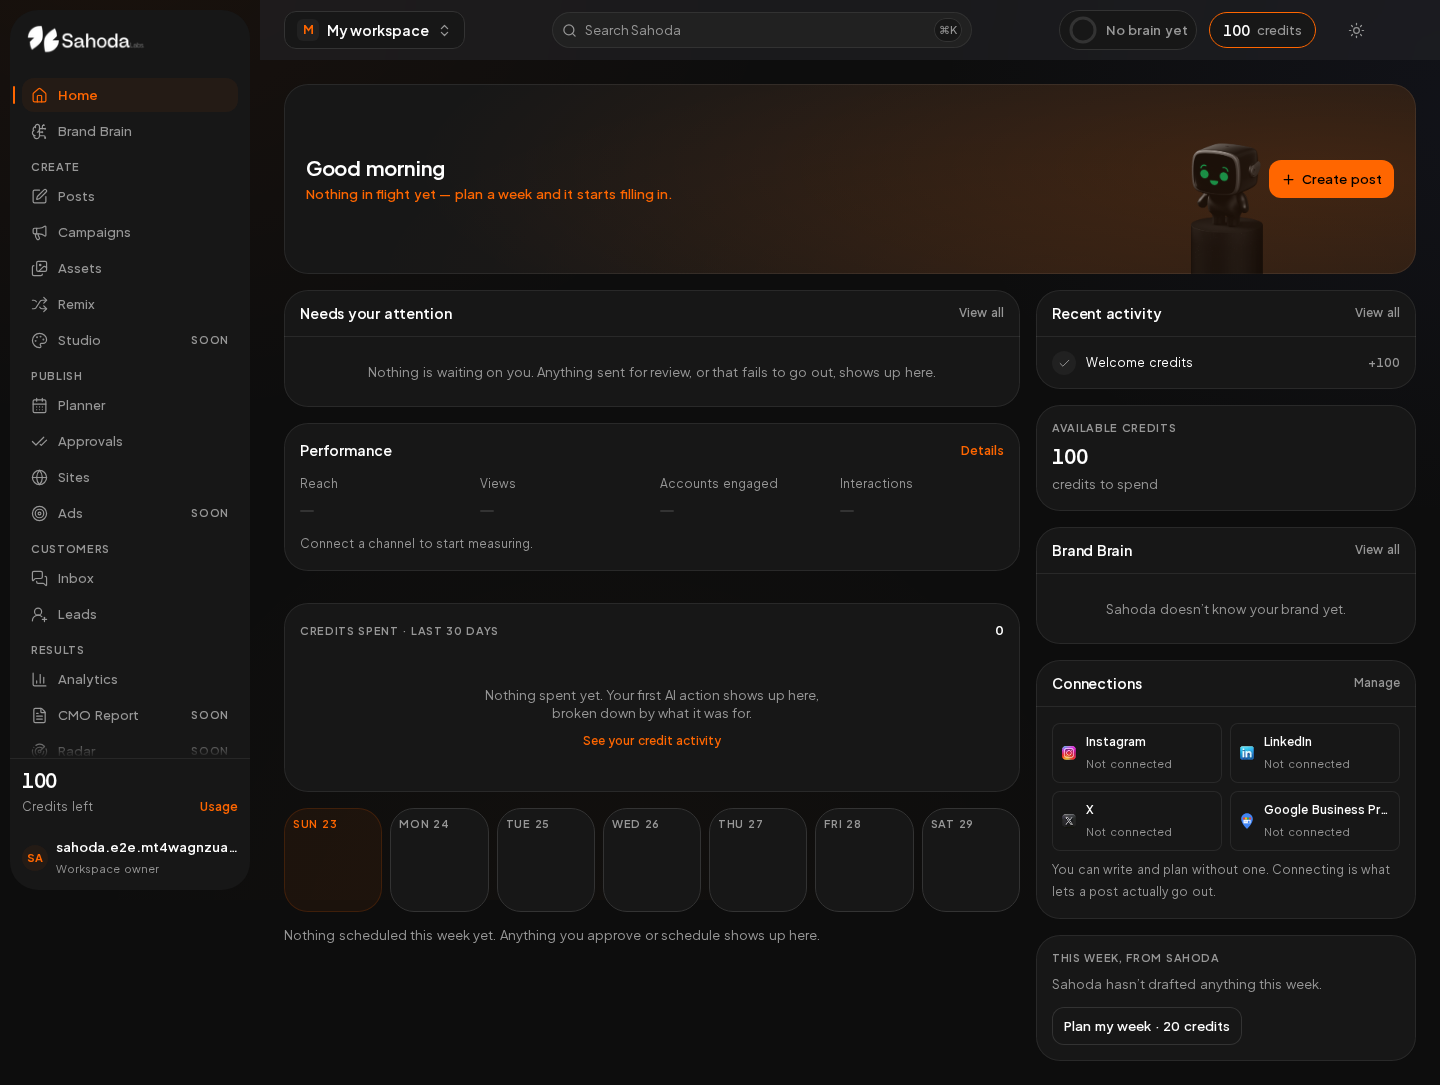
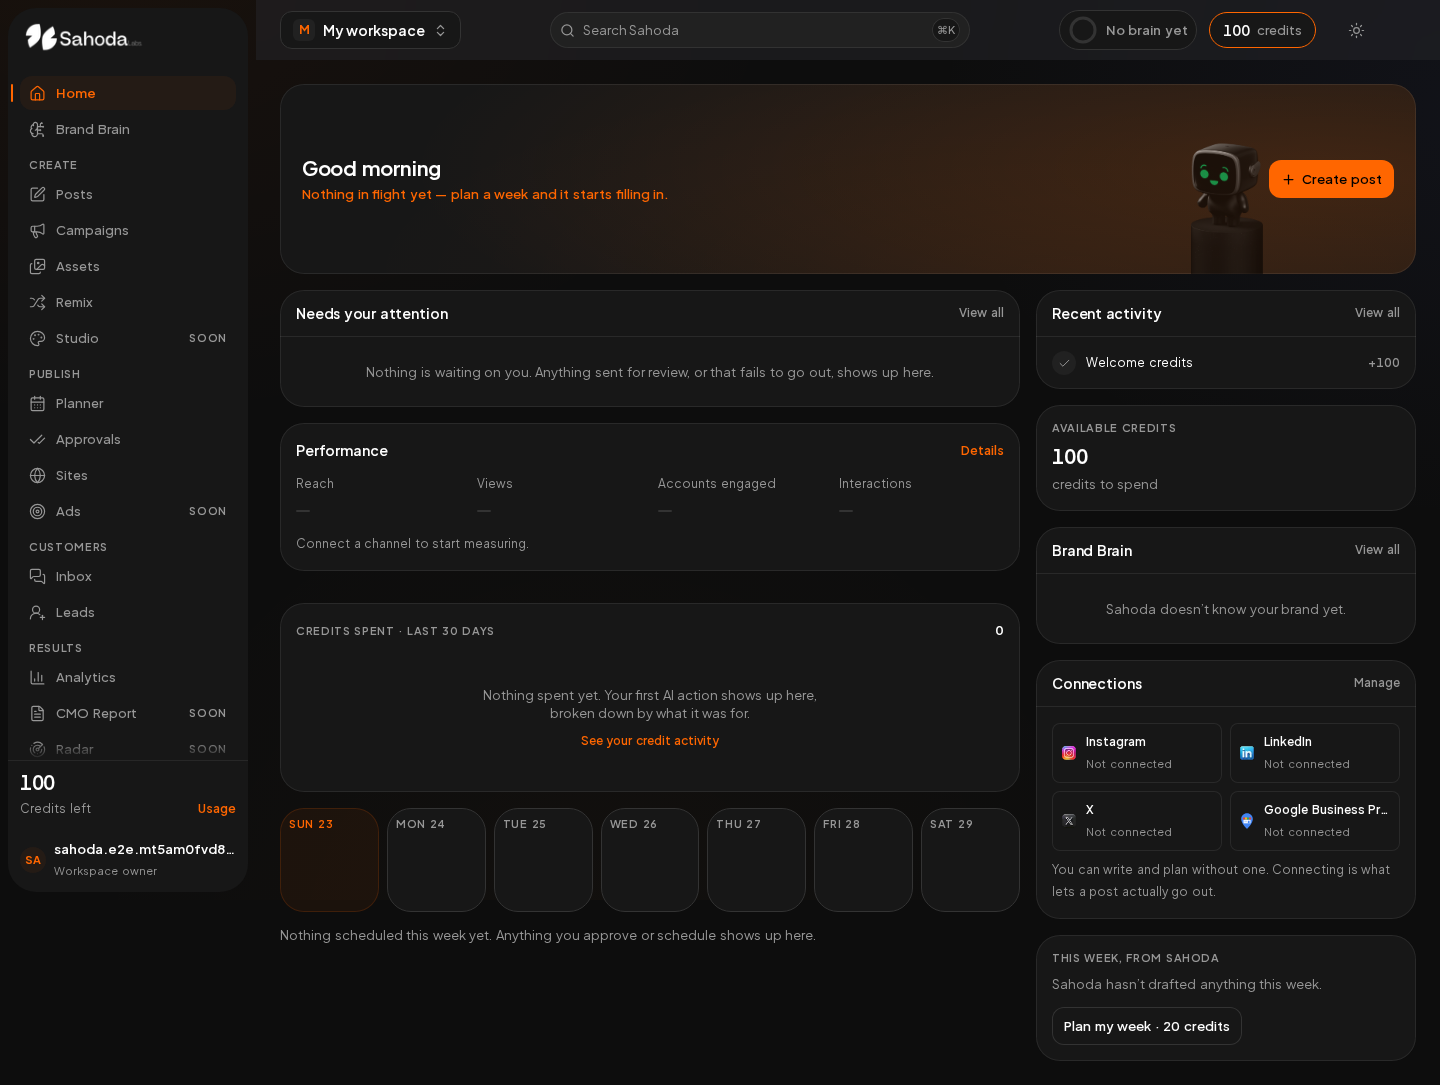
fix(design): the three smoke failures — one real regression, two brittle tests
Smoke ran 102 and reported 99 passed / 3 failed. All three were deterministic
(they failed on retry too), and all three were consequences of this lane.

1 · THE REAL ONE — /connections overflowed 700px by exactly 16px.

`connections-widths.spec.ts` reported "716px of content in 700px". I probed it
rather than guessing, and the overflowing element was NOT on the page — #main
was clean at 612px. It was the TOPBAR's avatar, at right=716.

The cause is the floating rail. Its grid column costs its WIDTH PLUS TWO
INSETS: 68 + 2x10 = 88px, where v4's flush 64px rail cost 64. That removed
24px from the content column at the one width where there is none spare, and
the topbar needed 16 of them.

Fixed at the token, not the page: --sidebar-w-collapsed 68 -> 56 and
--rail-inset 10 -> 8, so the column is 72px. Verified by re-probe —
scrollWidth 716 -> 700 exactly, MAIN 612 -> 628, rail x=8..64.

The reference measures 62px/10px, but at a 1844px viewport. Copying its
numbers into a 700px band was the mistake; taking its PROPORTION is the fix.

2,3 · TWO TESTS PINNING A PALETTE VALUE.

Both resolution-console tests asserted `--canvas === '#0b0b0c'`, v4's exact
dark canvas, and both failed on v5's measured #0d0d0d.

Their INTENT is right and is kept — each comment says it plainly: in light,
--ink is black and both pairs are legible, so a theme that failed to apply
would make the test pass on the one state the bug never existed in. The
[…]

diff --git a/apps/web/e2e/resolution-console.spec.ts b/apps/web/e2e/resolution-console.spec.ts
@@ -138,6 +138,43 @@ async function seedResolvedBrain(admin: SupabaseClient, workspaceId: string): Pr
   if (error) throw new Error(`seeding the brain failed: ${error.message}`)
 }
 
+/**
+ * Prove the page really is in dark, WITHOUT pinning a palette value.
+ *
+ * Both call sites used to assert `--canvas === '#0b0b0c'`. The INTENT was right
+ * and is kept — in light, `--ink` is black and both pairs are legible, so a
+ * theme that failed to apply would make these tests pass on the one state the
+ * bug never existed in. The IMPLEMENTATION was brittle: it pinned v4's exact
+ * dark canvas, so v5 moving it to the reference's measured #0d0d0d failed two
+ * tests that were not testing the palette at all.
+ *
+ * What the tests actually need is "the ground is dark", so that is what this
+ * measures — relative luminance, not a string. It survives any future retune of
+ * the ladder and still catches a theme that never applied (light's canvas
+ * measures ~0.96).
+ */
+async function expectDarkGround(page: import('@playwright/test').Page): Promise<void> {
+  const lum = await page.evaluate(() => {
+    const raw = getComputedStyle(document.documentElement).getPropertyValue('--canvas').trim()
+    const hex = raw.replace('#', '')
+    const full =
+      hex.length === 3
+        ? hex
+            .split('')
+            .map((c) => c + c)
+            .join('')
+        : hex
+    const [r, g, b] = [0, 2, 4].map((i) => parseInt(full.slice(i, i + 2), 16) / 255)
+    const lin = (c: number) => (c <= 0.04045 ? c / 12.92 : ((c + 0.055) / 1.055) ** 2.4)
+    return 0.2126 * lin(r!) + 0.7152 * lin(g!) + 0.0722 * lin(b!)
+  })
+  expect(
+    lum,
+    `--canvas has a relative luminance of ${lum.toFixed(4)} — the page is not in dark, so anything ` +
+      `measured on it would be measuring the state this test does not cover`,
+  ).toBeLessThan(0.05)
+}
+
 test.describe('signal resolution console @smoke', () => {
   test('a resolved brain arrives as a queue of guesses, and a batch can be confirmed', async ({
     page,
@@ -314,10 +351,7 @@ test.describe('signal resolution console @smoke', () => {
     // Confirm the page really is in dark before measuring anything on it —
     // otherwise a theme that failed to apply would make this pass on the light
     // palette, which is the state the bug never existed in.
-    const canvas = await page.evaluate(() =>
-      getComputedStyle(document.documentElement).getPropertyValue('--canvas').trim(),
-    )
-    expect(canvas).toBe('#0b0b0c')
+    await expectDarkGround(page)
 
     await page.getByRole('checkbox').first().check()
 
@@ -409,10 +443,7 @@ test.describe('dark ink on a white fill @smoke', () => {
     // Prove the page really is in dark before measuring. In light, `--ink` is
     // black and BOTH pairs are legible — so a theme that failed to apply would
     // make this pass on the one state the bug never existed in.
-    const canvas = await page.evaluate(() =>
-      getComputedStyle(document.documentElement).getPropertyValue('--canvas').trim(),
-    )
-    expect(canvas).toBe('#0b0b0c')
+    await expectDarkGround(page)
 
     const measured = await page.evaluate(
       ([contrastSrc]) => {

diff --git a/apps/web/src/lib/sites/tokens-css-inline.ts b/apps/web/src/lib/sites/tokens-css-inline.ts
@@ -401,11 +401,21 @@ export const TOKENS_CSS = `/* ==================================================
 
   /* ---------- L2 · LAYOUT ---------- */
   --sidebar-w: 240px; /* labelled rail, >=1180 */
-  --sidebar-w-collapsed: 68px; /* icon rail, 700-1179. Reference measured 62px. */
-  /* THE RAIL FLOATS. Measured on the reference: inset 10px from the viewport
-     on every side, radius 28px, so the page ground runs behind it. This is what
-     makes the rail read as an object on the page rather than a wall beside it. */
-  --rail-inset: 10px;
+  /* Icon rail, the 700-1179 band. The reference measures 62px at a 1844px
+     viewport; this is narrower because the constraint is different and it was
+     MEASURED, not chosen: the rail is no longer flush, so its grid column costs
+     its width PLUS two insets. At 68px + 2x10 that column took 88px where v4's
+     flush 64px rail took 64 — 24px removed from the content column, at the one
+     width where there is none to spare. The topbar overflowed by exactly 16px
+     at 700px and \`connections-widths.spec.ts\` caught it.
+     56 + 2x8 = 72px gives the 16px back and keeps the float visible. */
+  --sidebar-w-collapsed: 56px;
+  /* THE RAIL FLOATS. The reference measures a 10px inset; this is 8px for the
+     same reason the collapsed width is 56 — the inset is paid TWICE out of the
+     content column, and at 700px there are no spare pixels. Still a visible
+     float, and it is what makes the rail read as an object on the page rather
+     than a wall beside it. Radius 28px, measured. */
+  --rail-inset: 8px;
   --rail-r: var(--r-xl);
   --topbar-h: 60px;
   /* Widened from v4's 1080. The reference does not cap its content at all — at

diff --git a/packages/shared/tokens.css b/packages/shared/tokens.css
@@ -381,11 +381,21 @@
 
   /* ---------- L2 · LAYOUT ---------- */
   --sidebar-w: 240px; /* labelled rail, >=1180 */
-  --sidebar-w-collapsed: 68px; /* icon rail, 700-1179. Reference measured 62px. */
-  /* THE RAIL FLOATS. Measured on the reference: inset 10px from the viewport
-     on every side, radius 28px, so the page ground runs behind it. This is what
-     makes the rail read as an object on the page rather than a wall beside it. */
-  --rail-inset: 10px;
+  /* Icon rail, the 700-1179 band. The reference measures 62px at a 1844px
+     viewport; this is narrower because the constraint is different and it was
+     MEASURED, not chosen: the rail is no longer flush, so its grid column costs
+     its width PLUS two insets. At 68px + 2x10 that column took 88px where v4's
+     flush 64px rail took 64 — 24px removed from the content column, at the one
+     width where there is none to spare. The topbar overflowed by exactly 16px
+     at 700px and `connections-widths.spec.ts` caught it.
+     56 + 2x8 = 72px gives the 16px back and keeps the float visible. */
+  --sidebar-w-collapsed: 56px;
+  /* THE RAIL FLOATS. The reference measures a 10px inset; this is 8px for the
+     same reason the collapsed width is 56 — the inset is paid TWICE out of the
+     content column, and at 700px there are no spare pixels. Still a visible
+     float, and it is what makes the rail read as an object on the page rather
+     than a wall beside it. Radius 28px, measured. */
+  --rail-inset: 8px;
   --rail-r: var(--r-xl);
   --topbar-h: 60px;
   /* Widened from v4's 1080. The reference does not cap its content at all — at
